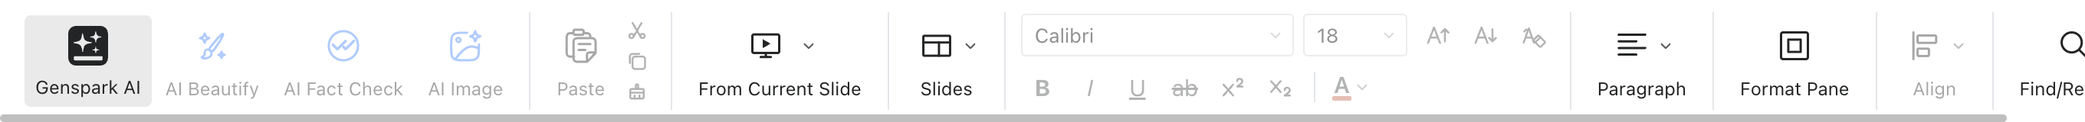
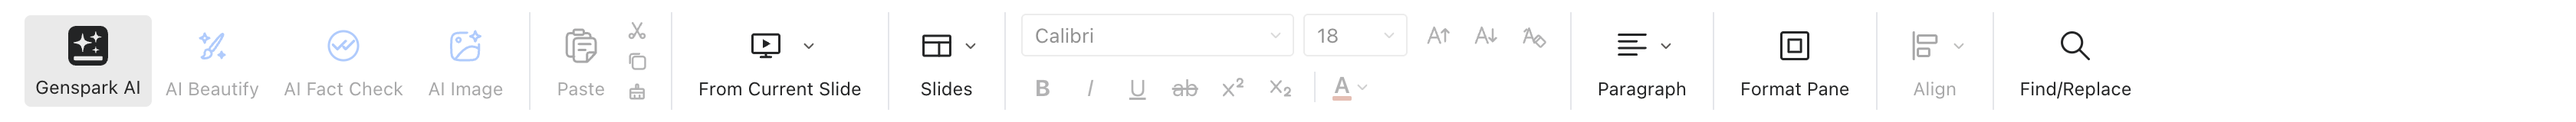
fix(help): capture the ribbon band whole
The ribbon runs past the right edge of a 1360px window, so the fonts
figure ended mid-word on "Find/Re" — and it did so in both languages, so
consistency was not the problem here, completeness was. Frame wider before
measuring, since the clip box has to be the band after the resize.

diff --git a/tools/gen-help-screenshots.ts b/tools/gen-help-screenshots.ts
@@ -154,11 +154,11 @@ async function launch(scratch: Scratch, lang: string): Promise<ElectronApplicati
  * setViewportSize alone is CSS pixels, and a half-resolution figure goes soft
  * on every retina display the manual is read on.
  */
-async function frame(page: Page): Promise<CDPSession> {
-  await page.setViewportSize({ width: 1360, height: 850 })
+async function frame(page: Page, width = 1360): Promise<CDPSession> {
+  await page.setViewportSize({ width, height: 850 })
   const cdp = await page.context().newCDPSession(page)
   await cdp.send('Emulation.setDeviceMetricsOverride', {
-    width: 1360,
+    width,
     height: 850,
     deviceScaleFactor: 2,
     mobile: false,
@@ -310,10 +310,13 @@ async function main(): Promise<void> {
         .locator('[data-ribbon-body]')
         .first()
         .waitFor({ state: 'visible', timeout: 45_000 })
+      // Resize before measuring: the clip box has to be the band *after* the
+      // viewport change, and at 1360 the ribbon runs past the right edge and
+      // the capture ends mid-word on 'Find/Replace'.
+      const slidesCdp = await frame(slides, 1680)
       const band = await slides.locator('[data-ribbon-body]').first().boundingBox()
       if (!band || band.width < 200)
         throw new Error(`ribbon band not measurable: ${JSON.stringify(band)}`)
-      const slidesCdp = await frame(slides)
       await writeFileSync(
         join(OUT_DIR, `fonts.${lang}.png`),
         await capture(slides, slidesCdp, {
